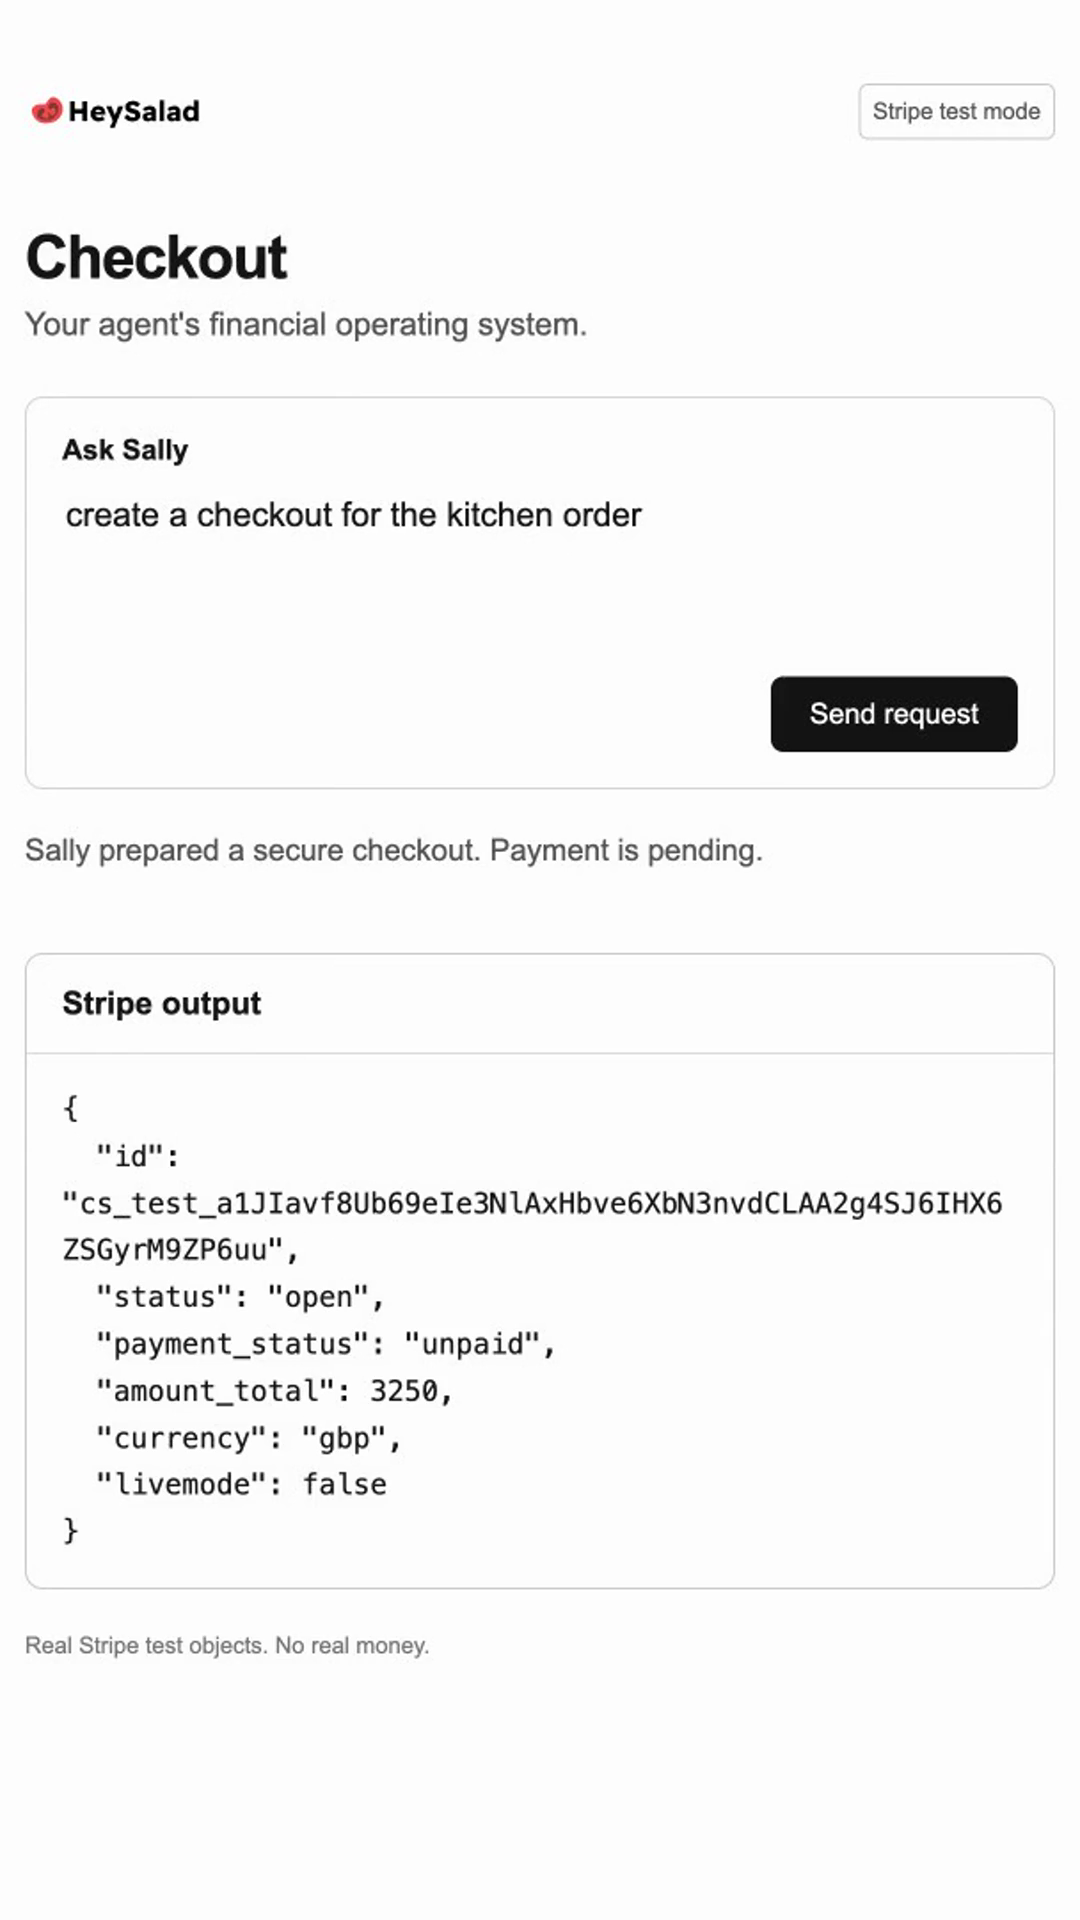
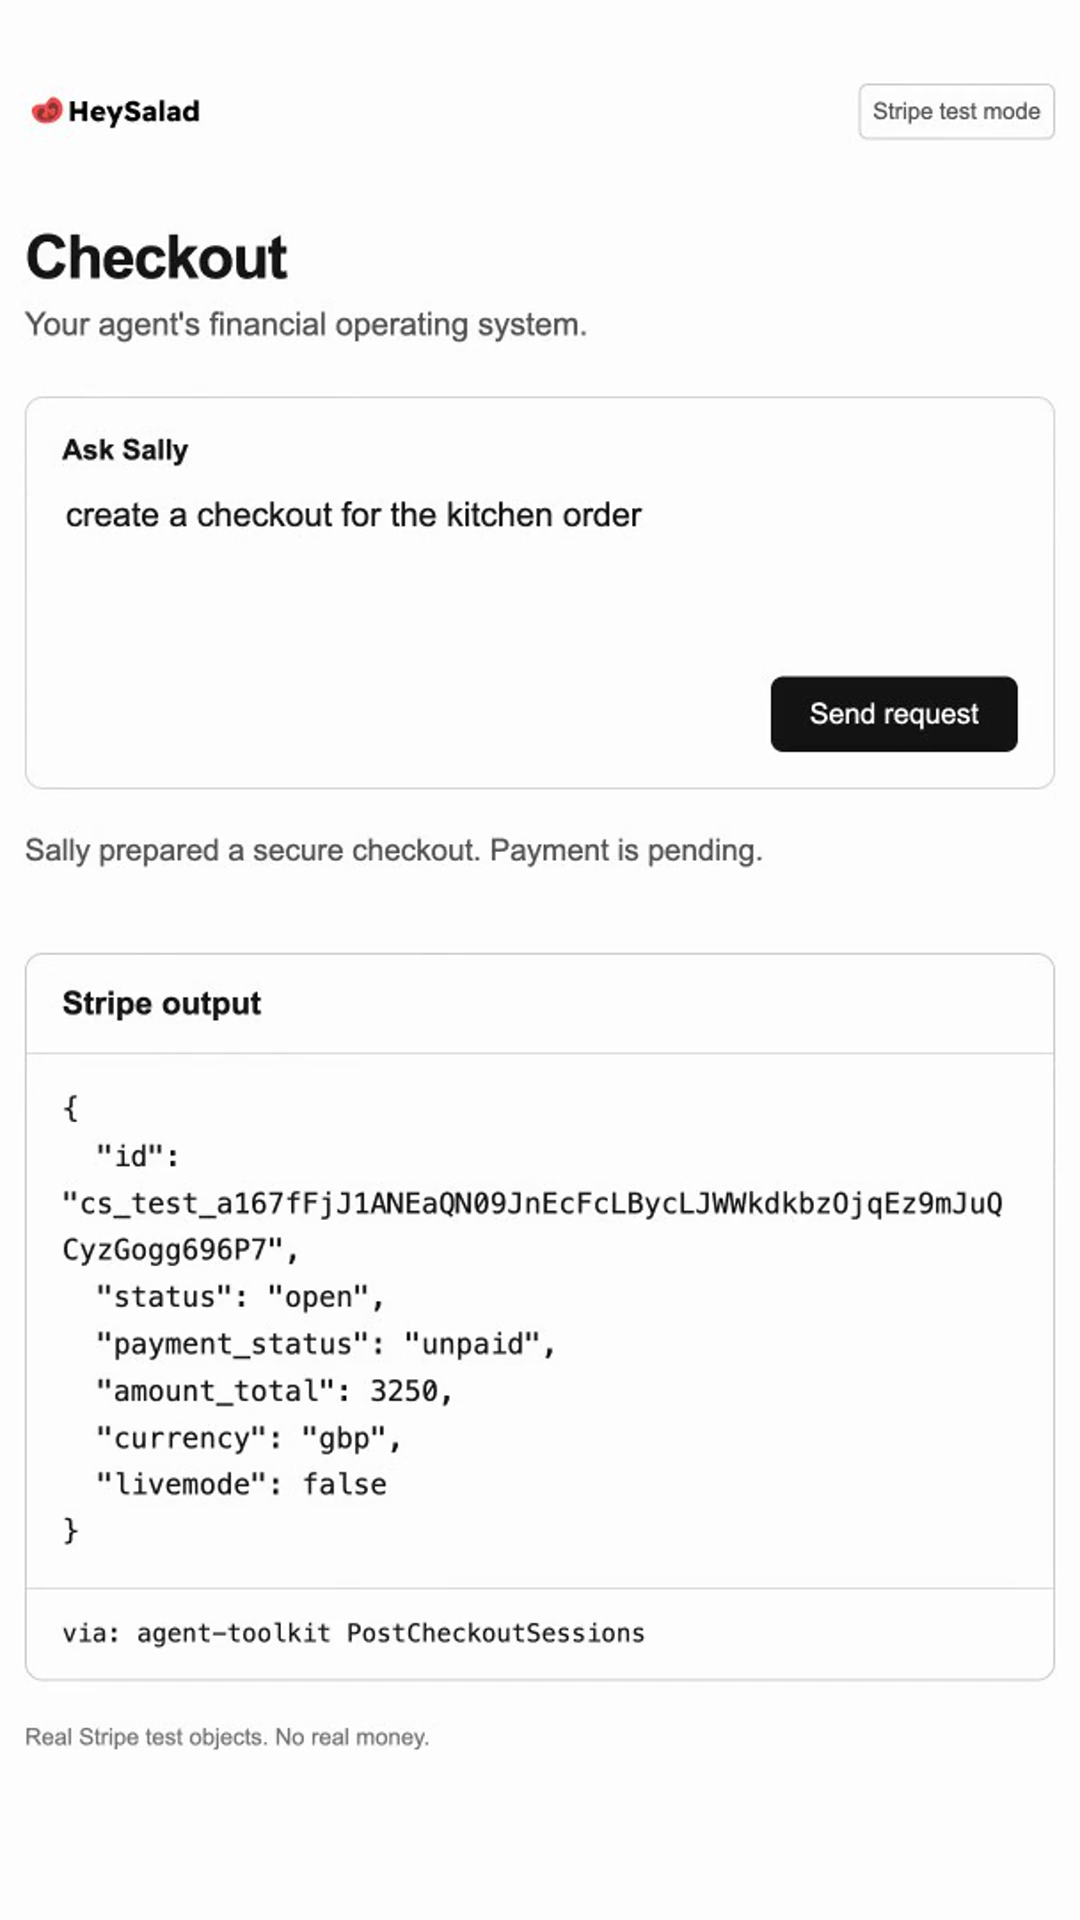
Audit and gate demo chat actions; record Toolkit provenance

Changed region(s): [[0.0611, 0.5938, 0.9167, 0.6562], [0.0306, 0.8438, 0.6111, 0.9062]]

diff --git a/src/agent9.ts b/src/agent9.ts
@@ -2,8 +2,10 @@
 // The UI only receives selected fields read back from Stripe, never whole card/token objects.
 import type { Express } from "express";
 import { stripeX, stripeI, issueCard, testAuthorization, payVenue, subscribe, sptPay } from "./stripe-extra.js";
-import { stripeWriteRequired } from "./toolkit.js";
+import { stripeWrite, stripeWriteRequired } from "./toolkit.js";
 import { readFileSync } from "node:fs";
+import crypto from "node:crypto";
+import { memory } from "./memory.js";
 
 export const AGENT9_COMMANDS = [
   "restock", "create a checkout for the kitchen order", "table for 6 Saturday 8pm",
@@ -27,6 +29,9 @@ export function mountAgent9(app: Express, port: number) {
     const n = commandIndex(q.body?.text);
     if (n < 0) return res.status(400).json({ error: "Choose a supported request" });
     if (!stripeX) return res.status(503).json({ error: "Stripe test key required" });
+    const at = () => new Date().toISOString();
+    const run: any = { id: "or_" + crypto.randomBytes(5).toString("hex"), createdAt: at(), agent: "Sally", channel: "chat", demo: "agent9", request: AGENT9_COMMANDS[n], decisions: [{ status: "approved", clause: "D1", reason: "Explicit, fixed test-demo request; no invoice email or live payment" }], total: 0, status: "running", stripe: {}, audit: [{ at: at(), event: "request_received", channel: "chat", text: AGENT9_COMMANDS[n] }, { at: at(), event: "policy_checked", clause: "D1", status: "approved" }] };
+    memory.save(run);
     const call = async (path: string, body = {}) => {
       const r = await fetch(`http://127.0.0.1:${port}${path}`, { method: "POST", headers: { "content-type": "application/json", accept: "application/json" }, body: JSON.stringify(body) });
       if (!r.ok) throw new Error("Financial action failed");
@@ -41,7 +46,9 @@ export function mountAgent9(app: Express, port: number) {
         proof = fields(o, ["id", "status", "amount", "currency", "livemode"]);
         reply = "Sally paid your supplier within your rules.";
       } else if (n === 1) {
-        const s = await stripeX.checkout.sessions.create({ mode: "payment", line_items: [{ price_data: { currency: "gbp", unit_amount: 3250, product_data: { name: "Kitchen order (test)" } }, quantity: 1 }], success_url: `http://localhost:${port}/agent9`, cancel_url: `http://localhost:${port}/agent9` });
+        const params: any = { mode: "payment", line_items: [{ price_data: { currency: "gbp", unit_amount: 3250, product_data: { name: "Kitchen order (test)" } }, quantity: 1 }], success_url: `http://localhost:${port}/agent9`, cancel_url: `http://localhost:${port}/agent9` };
+        const s = await stripeWrite("PostCheckoutSessions", params, () => stripeX!.checkout.sessions.create(params));
+        audit = { via: s._via, operations: ["PostCheckoutSessions"] };
         o = await verify(s.id, "checkout/sessions");
         proof = fields(o, ["id", "status", "payment_status", "amount_total", "currency", "livemode"]);
         reply = "Sally prepared a secure checkout. Payment is pending.";
@@ -55,11 +62,11 @@ export function mountAgent9(app: Express, port: number) {
           const r = await call("/demo/outinvoice", { customer: "Agent Nine Demo", amount: 120, desc: "Catering" });
           o = await verify(r.stripe.draft.id, "invoices");
         } else {
-          const c = await stripeX.customers.create({ name: "Agent Nine Tools", email: "agent9-tools@example.com", metadata: { app: "agent9-demo" } });
+          const c = await stripeWriteRequired("PostCustomers", { name: "Agent Nine Tools", email: "agent9-tools@example.com" });
           const draft = await stripeWriteRequired("PostInvoices", { customer: c.id, currency: "gbp", auto_advance: false, collection_method: "send_invoice", days_until_due: 30 });
           await stripeWriteRequired("PostInvoiceitems", { customer: c.id, invoice: draft.id, amount: 7500, currency: "gbp", description: "Services" });
           o = await verify(draft.id, "invoices");
-          audit = { via: "agent-toolkit", operations: ["PostInvoices", "PostInvoiceitems"] };
+          audit = { via: "agent-toolkit", operations: ["PostCustomers", "PostInvoices", "PostInvoiceitems"] };
         }
         proof = fields(o, ["id", "status", "total", "currency", "livemode"]);
         reply = "Sally prepared your draft invoice. No email sent.";
@@ -108,8 +115,17 @@ export function mountAgent9(app: Express, port: number) {
       }
       const expected = ["succeeded", "open", undefined, "draft", "closed", "succeeded", "active", "succeeded", "draft"][n];
       if ((expected && proof.status !== expected) || (n === 2 && proof.active !== true)) throw new Error("Unexpected Stripe state");
+      run.status = proof.status || "active";
+      run.total = (proof.amount ?? proof.amount_total ?? proof.total ?? 0) / 100;
+      run.stripe = { verified: proof };
+      run.audit.push({ at: at(), event: "stripe_verified", channel: "chat", object: proof.id, status: run.status, livemode: false });
+      if (audit) run.audit.push({ at: at(), event: "stripe_tool", channel: "chat", via: audit.via, tools: audit.operations });
+      memory.save(run);
       res.json({ reply, proof, audit });
     } catch {
+      run.status = "failed";
+      run.audit.push({ at: at(), event: "verification_failed", channel: "chat" });
+      memory.save(run);
       // Deliberately exclude upstream messages, URLs, keys and token payloads.
       res.status(502).json({ error: "This Stripe test action could not be verified. No proof is available." });
     }

diff --git a/src/server.ts b/src/server.ts
@@ -39,7 +39,7 @@ app.use(express.json());
 app.use(express.urlencoded({ extended: true }));
 mountMcp(app);
 mountStripeExtra(app);
-mountAgent9(app, PORT);
+if (process.env.AGENT9_DEMO === "1") mountAgent9(app, PORT);
 mountUi(app);
 // Cognee memory: preferences, past orders and spend decisions.
 app.post("/api/memory/remember", async (req, res) => { const t = String(req.body?.text || "").slice(0, 4000); if (!t) return res.status(400).json({ error: "text required" }); res.json(await remember(t)); });

diff --git a/demo/README.md b/demo/README.md
@@ -12,18 +12,19 @@ Set these environment variables, or put them in the ignored `demo/.env` (chmod 6
 - `ELEVENLABS_API_KEY`: access to Jessica Gallagher (Irish), voice ID `DbwWo4rVEd5NrejHYUnm`, model `eleven_multilingual_v2`.
 - `APP_URL`: the existing hosted **test-mode** app, used only for the Issuing scene. Its server must already have an active test card, £50 spending limit, the £80 test authorization button and a working Stripe output panel. This URL is never rendered or logged.
 
-The other eight scenes run on an automatically started local app with an ephemeral port. The local child gets only its test Stripe key; no Issuing, messaging or Cognee credentials. No hosted deployment occurs. The command prepares Connect's test venue and waits up to five minutes for its transfers capability to activate. If verification remains pending, it fails clearly; rerun when Stripe finishes verification. No simulated decline or Toolkit SDK fallback is accepted. Unavailable features fail the build.
+The other eight scenes run on an automatically started local app with an ephemeral port. The runner explicitly enables AGENT9_DEMO=1; the additional workspace is otherwise disabled. Its fixed commands and timestamped audit records follow recording rule D1 in policy.md. The local child gets only its test Stripe key; no Issuing, messaging or Cognee credentials. No hosted deployment occurs. The command prepares Connect's test venue and waits up to five minutes for its transfers capability to activate. If verification remains pending, it fails clearly; rerun when Stripe finishes verification. No simulated decline or Toolkit SDK fallback is accepted. Unavailable features fail the build.
 
 ## Rebuild and inspect
 
 ```sh
 npm run demo
+npm run demo -- --scene=9
 npm run demo -- --resume
 npm run demo -- --edit-only
 npm run demo -- --verify-only
 ```
 
-The first command regenerates fresh financial scenes. `--resume` continues after the last successfully saved scene when a feature was temporarily unavailable. Voice synthesis is cached privately by request hash. Editing and verification can be rerun without repeating financial actions. ElevenLabs synthesis consumes the account's normal API allowance; Stripe actions use test money only. Invoices remain drafts, Checkout remains unpaid and Payment Links remain uncollected. No customer email is sent by this pipeline.
+The first command regenerates fresh financial scenes. `--scene=N` replaces just one saved source scene (0–10), then rebuilds both edits and all evidence. `--resume` continues after the last successfully saved scene when a feature was temporarily unavailable. Voice synthesis is cached privately by request hash. Editing and verification can be rerun without repeating financial actions. ElevenLabs synthesis consumes the account's normal API allowance; Stripe actions use test money only. Invoices remain drafts, Checkout remains unpaid and Payment Links remain uncollected. No customer email is sent by this pipeline.
 
 `demo/work/agent9/raw/scene-00.mp4` through `scene-10.mp4` are separate source clips, including opening and closing. `demo/out/clips/` contains edited landscape/vertical scenes. A black sync marker, outside the final edit, synchronizes browser-clock beat timestamps to actual recorded video. `beats.json` records source phase times, marker offsets, final cuts and real read-back proof. Cuts are derived from those measurements.
 

diff --git a/demo/verification.md b/demo/verification.md
@@ -6,12 +6,12 @@ The complete capture/edit command `npm run demo` produced both final videos at *
 - All nine products recorded in order, with real BEFORE/action/AFTER timings in [beats.json](out/beats.json). The shotlist was committed first: 5ae466c; approved split documented in cde2b96.
 - Eight scenes use the local app and real Stripe test objects. Issuing uses the user-approved hosted app button and its real Stripe output panel. No Issuing key or Issuing action runs locally in the pipeline.
 - Fresh Stripe readbacks confirm test mode. The £80 authorization is closed with approved=false and a spending-controls decline. Connect includes an actual source-matched transfer and £3 application fee. Transfer settlement currency is shown separately from the GBP charge.
-- Agent Toolkit's invoice and item writes really use its tools, with no fallback accepted for this scene.
+- Agent Toolkit's customer, invoice and item writes really use its tools, with no fallback accepted for this scene. Checkout also records its actual Toolkit/SDK execution path.
 - Jessica Gallagher (Irish), eleven_multilingual_v2, natural speed 1. Character alignment sets product-name frame times; PCM correlation measures zero voice offset for every scene. Both formats have identical narration.
 - Opening card: exactly 0–6s. HeySalad closing slate: exactly the final 4s. Opening and closing spoken text match the request.
 - Individually reviewed all 18 product proof frames at full size and both two-second contact sheets, plus opening/closing frames. IDs and relevant statuses are readable in both formats; no captions, subtitles, zoom, pan, pink backgrounds, login pages or visible app URLs.
 - Automated OCR checks all 60 two-second samples and all 18 proof frames for login/URL text; flat-area colour checks reject pink backgrounds. ffprobe checks streams, dimensions, duration and starts.
-- Type checks and fail-closed Agent 9 tests pass. Existing read-only UI regression tests: 63/63. The existing full test script was not run because it would trigger local Issuing, contrary to the user's instruction.
+- The added workspace is disabled by default; the runner opts in with AGENT9_DEMO=1. New chat requests and real results are persisted in the existing audit store under recording rule D1. Type checks and fail-closed Agent 9 tests pass. Existing read-only UI regression tests: 63/63. The existing full test script was not run because it would trigger local Issuing, contrary to the user's instruction.
 - Raw recordings, audio caches and final MP4s stay ignored. The PR includes all 18 proof PNGs, the prefix-only table, timing JSON, contact sheets and machine evidence. Environment values and credential files are excluded.
 
[1 lines of base64/hex data omitted]

diff --git a/policy.md b/policy.md
@@ -25,3 +25,7 @@ Sally may build a basket on her own, but **never pays**. Payment is off-ramped t
 - **I4** Outgoing customer invoices: Sally prepares a DRAFT; up to **£500** she may send it, over £500 waits for human approval. Stripe test mode only; customer email is a test address.
 - **E1** Emails (e.g. shopping list) are drafts only. Sally never sends email.
 - **S1** Autonomous grocery shop (Waitrose): Sally picks the best-match product per list line and auto-pays up to **£25** per shop; the rest waits for human approval (R2). Stripe test mode only.
+
+## Recording-only test workspace (D1)
+
+When explicitly enabled with `AGENT9_DEMO=1`, `/agent9` accepts only its nine fixed, human-selected demo commands. It uses Stripe test keys and verifies every resulting object has `livemode: false`. Amounts are fixed by the committed shotlist, never supplied by a model. Existing restock, booking, invoice, card-control and token-limit checks still apply. Checkout and outgoing invoices are prepared only; no Checkout completion or invoice email is triggered. The £80 Issuing request deliberately exercises the card's decline. Connect's £60 venue payment and the £9 Billing subscription are explicitly authorized test-demo operations. All workspace requests, policy decisions, results and Toolkit operations are timestamped in the existing audit store. The workspace is disabled unless opted in, and no deployment is implied by a recording.
